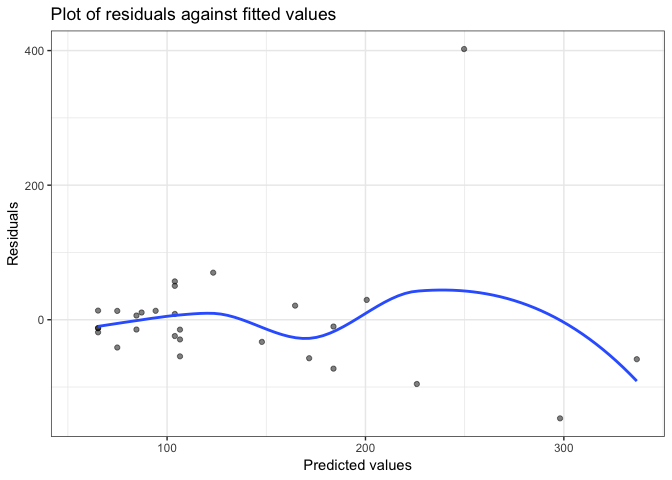
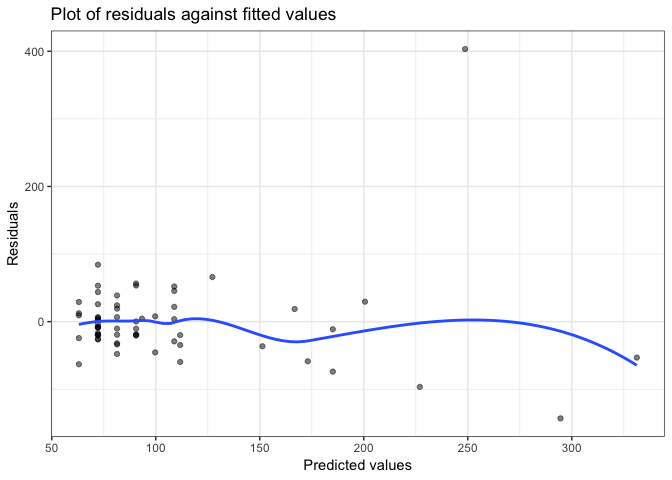
finished model building!!

diff --git a/model_building.md b/model_building.md
@@ -53,9 +53,6 @@ nys_pm25 = read_csv(file = "./data_AA/annual_aqi_by_county_2014.csv") %>%
          airq_unhealthy_days = unhealthy_days,
          airq_very_unhealthy_days = very_unhealthy_days,
          airq_hazardous_days = hazardous_days)
-
-# change NAs to 0 for ease of regression analysis
-nys_pm25[is.na(nys_pm25)] = 0
 ```
 
 ``` r
@@ -76,6 +73,9 @@ asthma_cvd_join = full_join(asthma_ed, cvd_hosp, by = "county")
 pm25_numhosp_join = full_join(nys_pm25, num_hosp, by = "county")
 
 nys_joined = left_join(asthma_cvd_join, pm25_numhosp_join, by = "county")
+
+# change NAs to 0 for ease of regression analysis
+nys_joined[is.na(nys_joined)] = 0
 ```
 
 **Checks before regression analysis:**
@@ -190,6 +190,8 @@ nys_joined %>%
 
 <img src="model_building_files/figure-markdown_github/asthma_diagnostics-1.png" width="90%" />
 
+The plot of the residuals illustrates that the model does not predict higher values very well, which makes sense given that the rate of asthma hospitalizations events is generally not very high, save for select counties in NYC. The values cluster in the lower end of the distribution, and the fitted line jumps around, maybe in large part due to the small number of counties.
+
 #### CVD model
 
 ``` r
@@ -221,7 +223,7 @@ cv_cvd %>%
 
 <img src="model_building_files/figure-markdown_github/cvd_cv-1.png" width="90%" />
 
-#### Diagnostics of adjusted cvd model
+#### Diagnostics of adjusted CVD model
 
 ``` r
 # Plotting residuals
@@ -240,3 +242,5 @@ nys_joined %>%
 ```
 
 <img src="model_building_files/figure-markdown_github/cvd_diagnostics-1.png" width="90%" />
+
+The plot of the residuals for the adjusted CVD hospitalizations model shows that the residuals are widely distributed for the lower predicted values, and has similar issues to the asthma hospitalizations plot in that the small sample size pulling the fitted line.
